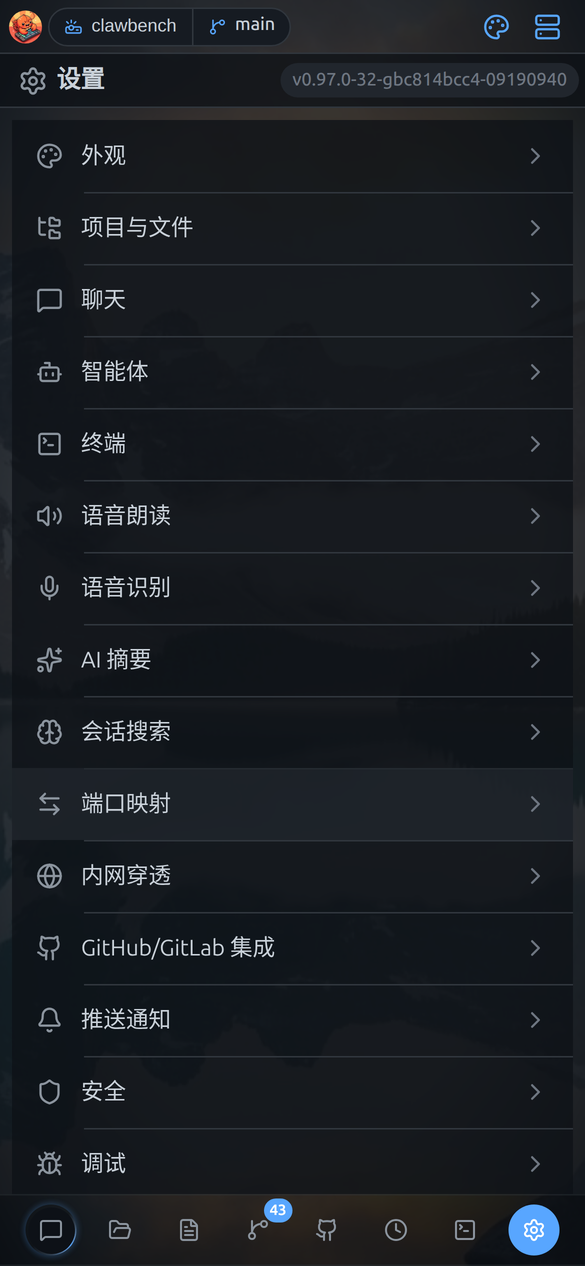
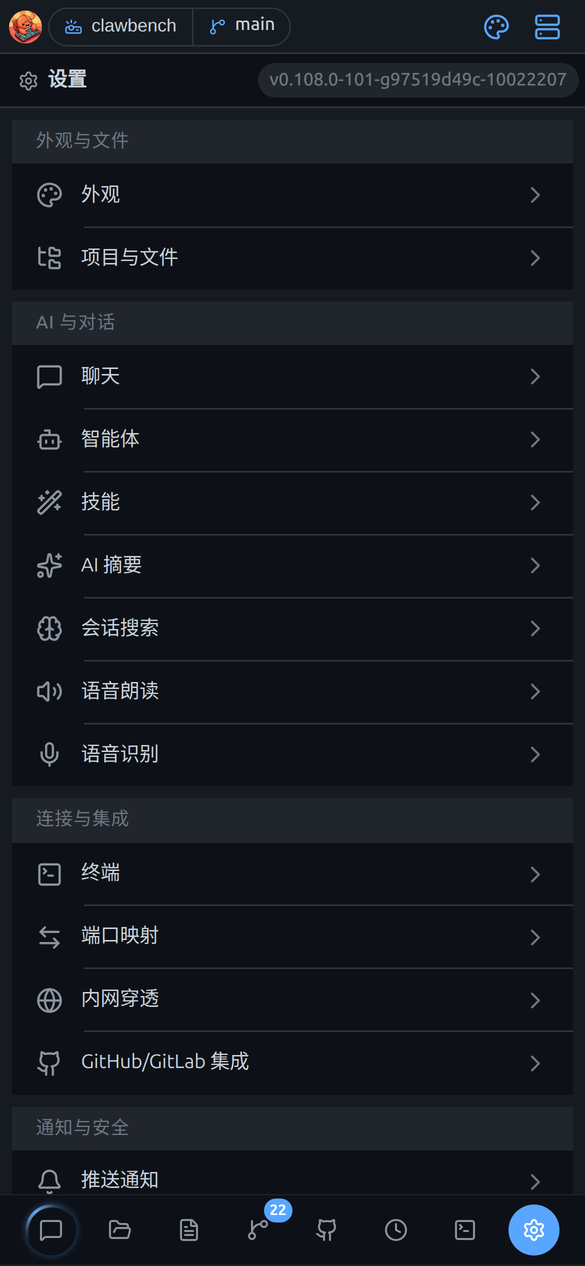
docs(user-guide): 修正与代码矛盾处并补全缺失功能
对照代码全面审查用户手册，修正多处与实现不符的描述，补齐缺失的
功能说明，并新增桌面客户端章节。

修正（与代码矛盾）：
- settings.md：分类数 16 → 17；「技能」是独立分类而非并入智能体；
  删除不存在的「会话有效期」；端口映射已移除「测试连通」按钮、
  传输方式改为保存即拆建（非下次重连）；补端口扫描
- TTS.md：删除后端并不存在的 minimax 引擎（仅 edge/piper/kokoro/moss-nano）
- DINGTALK/FEISHU_PUSH.md：改为当前的粘性会话 + /ls 命令行为
- FAQ.md：自动缩放已改为一次性「自动适配」按钮

补全：
- chat.md：/btw 需先配摘要模型、排队「合并」、计划/团队面板细节、
  ACP 外部会话恢复、消息聚类抽屉（原文「折叠卡片」描述有误）、
  消息索引搜索、元数据字段
- session.md：分叉锚点折叠与「第 N 代」、跨项目页签
- file-viewer/file-manager/git/stats/tasks/TERMINAL：符号大纲、表格行展开、
  灯箱桌面交互、内容搜索边界、SHA 搜索、单文件历史、流水线 job 明细、
  project_only、成本/趋势图
- android-app.md：国产 ROM 自启动与电池白名单指引
- 新增 desktop.md：桌面客户端（下载/窗口/版本门禁/自升级/通知/多服务器）
- README.md：索引补入桌面客户端章节

截图：新增 6 张、重拍 2 张（桌面 1280×720、移动 585×1266）

diff --git a/docs/user-guide/chat.md b/docs/user-guide/chat.md
@@ -28,7 +28,7 @@
 | 新建会话 | 新建（**桌面端**长按可选智能体；**移动端**新建时会先弹出智能体选择器） |
 | 会话搜索 | 打开搜索抽屉 |
 | 消息索引 | 打开用户消息索引，快速跳转到某条消息 |
-| 同步外部会话 | 把 ACP 外部会话同步进来 |
+| 同步外部会话 | 把 ACP 外部会话同步进来（见下方「外部会话同步与恢复」） |
 | 归档 | 归档当前会话 |
 | 自动朗读 | 开关 AI 回复的自动语音朗读 |
 | 刷新会话 | 重新拉取当前会话 |
@@ -42,6 +42,17 @@
 **移动端**「对话索引」抽屉按时间列出最近的**用户提问与 AI 回复摘要**（交错时间线，每行带角色图标），点击可跳到对应位置：
 
 ![对话索引](screenshots-mobile/m-56-message-index.png)
+
+**消息索引抽屉顶部有搜索框**，可过滤条目并高亮命中片段；键盘 `↑`/`↓` 选择、`Enter` 跳转。过滤后每条仍保留其**原始序号徽标**（便于对照真实位置），`/btw` 旁路问答条目带独立图标。
+
+### 外部会话同步与恢复
+
+**桌面端**顶栏的「同步外部会话」按钮用于把**该智能体在 CLI 侧已有的会话**导入 ClawBench：
+
+- 点击后打开**恢复抽屉**，列出该智能体的历史会话（带搜索框、滚动加载更多），点条目即恢复；标题为空时显示「未命名会话」
+- 该智能体**不支持列出会话**时，抽屉会明确提示，而不是显示空列表
+- 属于**其他项目**的会话默认折叠，抽屉底部会提示「另有 N 个属于其他项目」
+- **同步**会**重写当前会话的历史**，因此会先弹出危险操作确认框；会话正在运行或为空时该按钮禁用。同步完成后提示「已同步 N 条」
 
 ### 输入区
 
@@ -79,7 +90,9 @@
 
 **`/cb-user-guide <问题>` 查阅本手册**：AI 直接读手册源文件作答，并**在回答末尾附上参考文件的绝对路径与章节标题**，方便你顺着路径看原文。
 
-**`/btw <问题>` 是旁路问答**：由 ClawBench 用摘要模型基于当前会话作答，**不经过当前会话的 AI、不占用会话、不写进对话历史**——所以当 AI 正在跑长任务时也能随时「顺便问一句」。答案在聊天区留一个锚点，点击后在抽屉里查看。
+**`/btw <问题>` 是旁路问答**：由 ClawBench 用摘要模型基于当前会话作答，**不经过当前会话的 AI、不占用会话、不写进对话历史**——所以当 AI 正在跑长任务时也能随时「顺便问一句」。答案在聊天区留一个锚点，点击后在抽屉里查看；抽屉里渲染成一条完整的问答对（与正常消息同样的 Markdown、代码、表格、标注）。
+
+> **前提**：`/btw` 用的是**AI 摘要模型**，因此需要先在 **设置 → AI 摘要** 里配置好模型；未配置时该命令会直接报错。此外，失败的问题**同样会留下锚点**（记录失败原因），不会静默消失。对话索引里 `/btw` 条目带独立图标，可与普通提问区分。
 
 **移动端**在输入框开头输入 `/` 会弹出命令补全菜单，可快速调用内置命令（如 `/cb-chatsearch` 搜索历史会话、`/cb-task` 管理任务、`/cb-usage` 查用量、`/cb-user-guide` 查阅本手册），以及当前智能体支持的技能命令：
 
@@ -191,6 +204,8 @@
 
 用户消息同样支持复制与查看详情。
 
+**「查看详情」弹窗字段**：除模型、耗时、Token 用量外，还包含请求/追踪 ID、缓存读/写与缓存命中 Token 数及命中率、Credit、思考 Token、按类别的用量明细、墙钟耗时、结束原因、回合结果、Agent 阶段、是否已建全文/向量索引、外部会话 ID 等。字段较多，适合排查「这条回复到底花了多少、走的哪条链路」。
+
 > **注意**：**桌面端**这些按钮**悬停才出现**，触屏没有 hover——所以在**移动端**它们是**常显**的，直接点即可。
 
 **移动端**在消息里**选中文字**会弹出引用条，可以把这段内容带进下一轮提问。
@@ -201,8 +216,8 @@
 - **工具调用**：以胶囊/卡片形式展示，点击展开详情
 - **耗时标注**：每条回复下方显示本轮耗时
 - **文件变更横幅**：本轮改了哪些文件，点击打开抽屉
-- **计划面板**：AI 的多步计划及进度
-- **团队面板**：当智能体派出**多智能体团队**（目前 CodeBuddy 支持）时，输入框上方出现一条团队状态栏——折叠时显示当前正在工作的成员与进度（如「alpha · 进行中　1/2」），展开可看每个成员的名称（按成员配色）、状态、工具调用次数与 token 用量。成员各自产出的思考、工具调用和输出都归到它自己的 Agent 卡片下，不会和主对话混在一起。团队结束后状态栏收起为「已结束」，成员历史内容保留
+- **计划面板**：AI 的多步计划及进度。折叠时显示当前进行中那一步的文字与「完成数/总数」；计划更新时折叠条会闪一下高亮提示。展开后是按顺序排列的纵向时间线，每一步带状态节点（已完成 ✓ / 进行中脉动点 / 待办空心点）与**优先级圆点**（高红 / 中黄 / 低蓝）。回溯会话会清空计划面板
+- **团队面板**：当智能体派出**多智能体团队**（目前 CodeBuddy 支持）时，输入框上方出现一条团队状态栏——折叠时显示当前正在工作的成员与进度（如「alpha · 进行中　1/2」），团队结束后收起为「团队名 · 已结束」；展开可看每个成员的名称（按成员配色）、状态、工具调用次数与 token 用量（如 `85.2k`，为输入+输出之和）。成员行有原生提示气泡，额外显示该成员的**职责描述、agentType、输入/输出 token 拆分与最近一次上下文窗口大小**。成员各自产出的思考、工具调用和输出都归到它自己的 Agent 卡片下，不会和主对话混在一起。若这个团队是智能体**自动组建**的（未显式指定成员），标题旁会有一枚「**自动团队**」徽标。成员状态包含运行中 / 已完成 / 失败 / 已结束（被回收的成员整行变暗，仅表示资源已回收，不代表失败）
 - **滚动悬浮按钮**：快速跳到上一条/下一条消息、顶部/底部
 - **代码块头按钮**：代码块右上角的复制、换行、附加到聊天
 - **外部链接**：Markdown 里的 http/https 外链在**浏览器**里点击会**新标签页打开**，不会把当前应用界面顶掉（App 模式交给系统浏览器；同源链接与锚点、相对路径仍在原地导航）
@@ -312,6 +327,9 @@ AI 还在输出时你能做的事：插话、取消、重置会话。
 
 - **插话（steer）**：流式进行中直接发送新消息，会在当前回合的合适位置插入，不必等 AI 说完
 - **排队**：AI 忙碌时发的消息进入输入框上方的**排队面板**（收起态显示「排队中 · N」，展开看每一条）。逐条执行，**每条答完都会推送一次完成通知**（不再等整队列排空才推最后一条）；面板里每条可删除，另有「插话」按钮把该条插入当前回复
+  - **合并**：排队两条及以上时，面板底部提供**「合并」**操作，把队列里所有消息合并成一条再发送（附件与引用一并合并），避免 AI 逐条处理零散指令
+  - **收起态**：只有一条时不显示数量（冗余）；数量为 0 时面板自动收起
+  - **插话按钮的图标随能力变化**：后端支持打断时显示闪电图标、否则显示方块图标，但标签始终是「插话」——点下去都是「插进当前回合」的语义
 - **取消**：点停止按钮取消当前回合
 - **重置会话**：会话卡死时，用错误横幅上的按钮重启 AI 进程，对话上下文保留
 
@@ -420,12 +438,24 @@ AI 还在输出时你能做的事：插话、取消、重置会话。
 
 ## 消息聚类
 
-把长会话里聊同一件事的多轮对话自动折叠成一组，方便回溯。
+把长会话里聊同一件事的多轮对话自动归成一组，帮你从历史消息里发现可复用的 Prompt。
 
-**消息聚类**（Message Clustering）将同一主题的多轮对话自动归为一组，方便回溯与整理。聚类基于消息内容语义与时间间隔进行 Union-Find 三阶段合并：
+**消息聚类**（Message Clustering）是一个**按需分析的抽屉**，入口在**快捷发送抽屉**右上角的 **✨** 按钮。抽屉打开后：
+
+![消息推荐（消息聚类）](screenshots/chat-clusters.png)
+
+1. 点「**开始分析**」（已有结果时为「重新分析」），ClawBench 会对当前会话的历史消息做语义聚类
+2. 分析过程中显示**进度条与阶段**（提取 → 聚类 → 保存，带百分比）与所用的匹配方式（全文检索 / 语义向量 / 精确匹配）
+3. 完成后按组列出**聚类结果**，每组显示包含多少条相关对话；点开一组可查看其变体，并把满意的 Prompt **「添加」到快捷发送**，之后一键复用
+
+聚类基于消息内容语义与时间间隔进行 Union-Find 三阶段合并：
 
 1. **语义相近**：连续若干轮对话若讨论的是同一主题，则合并
 2. **时间合并**：间隔短的多轮对话段若主题相关则合并
 3. **边界识别**：若两段之间有明显的话题转换（如新问题或新文件），则分开
 
-聚类结果以折叠卡片形式展示，用户可点击展开查看完整多轮对话。适合长会话中快速定位到之前讨论过的某个子话题。
+> 聚类结果只在点「开始分析」时计算，不随对话实时变化——长会话中想找某个子话题时再跑一次即可。
+
+**移动端**入口相同（快捷发送抽屉右上角 ✨），抽屉从底部弹出：
+
+![移动端消息推荐](screenshots-mobile/m-59-message-clusters.png)

diff --git a/docs/user-guide/desktop.md b/docs/user-guide/desktop.md
@@ -1,0 +1,99 @@
+# 桌面客户端（Windows / macOS / Linux）
+
+> 本文适用于 **桌面客户端**（Electron 壳）。浏览器用户可跳过本章。
+
+ClawBench 桌面客户端是**纯「壳」**：它复用服务器与 Web 前端的全部业务逻辑，只补上浏览器做不到的桌面能力——**窗口最小化/隐藏时仍能弹系统通知**、原生窗口控制、自升级等。装了它，你的服务器与所有数据都不变，只是换一个更原生的入口。
+
+> 界面与浏览器版完全一致（同一套前端），差异只在原生能力；本章不重复截图，桌面专属能力以文字说明为主。
+
+> **与手机 App 模式的区别**：两者都经原生桥被识别为「原生环境」，但省电策略相反——Android 退到后台会被系统挂起，故隐藏时主动断开 WebSocket；桌面窗口只是最小化、进程仍在跑，断开 WS 等于自断通知来源。因此桌面端**窗口最小化时仍保持连接**，通知照常到达。
+
+## 下载与安装
+
+### 从哪里下载
+
+两种入口，拿到的是同一个安装包：
+
+- **设置 → 关于 → 下载桌面版**（仅当服务器是打了标签的正式发布、且你正在桌面浏览器里访问时出现）
+- 仓库的 GitHub **Releases** 页面
+
+> 服务器是**开发/未打标签**构建时，下载入口会自动隐藏——此时没有对应的发布包可下。
+
+### 支持平台
+
+| 平台 | 产物 |
+|---|---|
+| **Windows**（x64） | zip 免安装目录 |
+| **macOS**（Apple Silicon / Intel） | zip（`.app`） |
+| **Linux**（x64 / arm64） | zip 免安装目录 |
+
+下载的是 **zip 压缩包**，解压后直接运行其中的可执行文件即可，无需安装程序。国内网络下服务器会优先给出**镜像地址**，直连 github.com 作为兜底。
+
+## 窗口控制
+
+Windows / Linux 上是**无边框窗口**，标题栏右侧自绘三个控制按钮（最小化 / 最大化 / 关闭）；macOS 保留系统原生交通灯。标题栏空白处可拖动窗口。
+
+窗口的**最小化/隐藏**是桌面端最重要的能力：它是「系统通知是否弹出」的判据——**窗口在屏幕上（可见且未最小化）时抑制系统通知**（你开着应用，通知只会重复应用内完成卡片），只有最小化 / 隐藏时才弹。
+
+> **判据是「窗口是否可见」而非「是否有焦点」**：窗口摆在第二显示器、或被你正开着的其他程序盖住，都算「应用开着」，此时不该弹通知；否则你点一下别的窗口，通知就会突然开始弹。这个判断必须在主进程做——渲染层的 `document.hasFocus()` 在最小化/隐藏窗口里仍可能为真。
+
+## 原生通知
+
+会话完成、任务完成、需要审批、仓库事件发生时，若窗口不在屏幕上，桌面端会弹出**系统通知**（与浏览器通知不同，它在窗口最小化/隐藏时也能触发）。**点击通知**会直接把窗口带到前台并跳到对应位置：
+
+- 会话完成 → 打开该会话
+- 任务完成 → 打开该任务执行详情
+- 仓库事件 → 打开「议题与合并请求」页签
+
+窗口被最小化时，点击通知会先**还原并显示窗口**再跳转（只 `focus()` 对最小化窗口是无效的）。
+
+## 版本一致性门禁
+
+桌面客户端与服务端**同版本发布**，因此两端版本必须一致，否则可能出现不兼容。连接服务器时，客户端会比对双方版本：
+
+- **不一致时弹出阻断遮罩**，提示当前客户端版本与服务器版本，并给出**下载对应版本**的入口
+- **客户端较旧**（落后于服务器）时，下载是「升级」；**客户端较新**（超前于服务器）时，下载是「**降级**」——文案会区分这两种方向，不会把降级说成升级
+- 在遮罩里点下载后，会按服务端版本执行一次自升级；升级完成或你选择稍后重启，遮罩都会关闭
+- **开发/未打标签的服务器不触发门禁**（没有对应的发布版本可比对）
+
+## 自升级（侧装 + 指针）
+
+桌面端的升级采用**「侧装 + 指针」**而不是原地替换——因为运行中的进程无法覆盖自身（Windows 上尤其如此）：
+
+1. 新版本被解压到 `~/.clawbench-desktop/app-<版本>/` 这个**独立目录**
+2. 改写一个**指针文件** `~/.clawbench-desktop/current` 指向新目录
+3. 重启后，**应用自己**在启动最前面读指针，决定运行哪个版本
+
+这样做的收益是**失败可回滚、旧版本保留**：指针缺失、目标目录不存在、或指向自身时，应用会清掉指针并继续用当前版本启动——**被删坏或写坏的升级永远不会让应用打不开**。
+
+- **增量载荷包**（约 3MB，只含资源、复用已有 Electron 运行时）在 Linux / Windows 上优先使用；安装前会校验主版本与壳指纹，不符则静默回退到全量包
+- **macOS 不用载荷包**（替换签名 `.app` 内的资源会破坏代码签名），始终走全量下载
+
+> **「检查更新」在哪**：**设置 → 关于 → 检查更新**。发现新版本会弹出升级卡片，可选「立即升级 / 跳过此版本 / 稍后提醒」。
+
+## 多服务器与登录
+
+桌面端支持**保存多个服务器**，每个服务端的密码**分别加密存储**（用系统安全存储 safeStorage），在多个实例之间来回切换都能自动登录：
+
+- 登录页可添加、切换、删除已保存的服务器
+- 认证失败、网络不通、该服务端没存过密码这三种情况会**分别给出提示**，不会静默退回登录页
+- 服务器地址、凭据与主题/语言偏好都持久化在本地
+
+## 原生右键菜单与外部链接
+
+- **右键菜单**用系统原生菜单（剪切 / 复制 / 粘贴走系统角色，按语言本地化），图片上可「复制图片」、链接上可「复制链接」
+- **外部链接**交给系统默认浏览器打开，不会在应用窗口里顶掉界面
+- 窗口内的 `Ctrl+滚轮` / `Ctrl+=` / `Ctrl+-` 缩放整个界面（详见[快捷键与手势](shortcuts.md)）
+
+## 与浏览器的差异一览
+
+| 能力 | 浏览器 | 桌面客户端 |
+|---|---|---|
+| 窗口最小化时收通知 | ❌（标签被冻结时页面内通知不触发） | ✅ 系统通知 |
+| 原生窗口控制 / 无边框 | ❌ | ✅ |
+| 自升级 | ❌（刷新即可） | ✅ 侧装 + 指针 |
+| 版本一致性门禁 | ❌ | ✅ |
+| 多服务器保存 | 部分（App 模式） | ✅ 加密保存 |
+| 端口映射传输方式选择 | ❌（无 h2 流式请求体） | ✅ SSH / HTTP/2 |
+
+> **桌面端不是「手机 App 模式」**：它**不会**因为窗口最小化就断开 WebSocket——否则通知就失去了来源。前端用 `isDesktopApp` 区分两者，门控写成 `isAppMode && !isDesktopApp`。

diff --git a/docs/user-guide/file-viewer.md b/docs/user-guide/file-viewer.md
@@ -61,6 +61,8 @@
 
 **选中表格里的任意一行**（含表头行与数据行）「添加到聊天」时，引用标注的是该行自己的源文件行号，而不是整张表格的起始行。
 
+**移动端点表格行可展开为整行视图**：在触屏设备上点表格的数据行，会弹出一个全屏的行查看器，把该行的每个单元格以「表头 → 值」的形式纵向铺开，适合窄屏下看清一行有很多列的数据；可用左右箭头在相邻行之间切换。**桌面端不弹这个视图**——PC 上单击表格图片走灯箱，点表内路径/链接仍按各自跳转处理。
+
 **数学公式（LaTeX）**：
 
 ![LaTeX 公式](screenshots/preview-latex.png)
@@ -110,8 +112,10 @@ CodeMirror 编辑器，支持**浏览 / 编辑双模式**切换。特性：
 - **自动换行**：可开关
 - **粘性滚动（sticky scroll）**：滚动时当前函数/类名吸顶
 - **搜索**：`Mod+F` 打开搜索面板
-- **符号提取**：基于 tree-sitter 提取函数/类列表
+- **符号提取**：基于 tree-sitter 提取函数/类列表；**代码文件的工具栏「目录」按钮会渲染符号大纲**——按函数 / 类 / 结构体 / 接口 / 枚举等类型分组，每项带类型图标，点击跳到对应位置。Markdown 的目录、PDF 的页大纲与代码符号大纲共用同一个「目录」按钮与侧栏
 - **保存**：编辑态下 `Mod+S` 保存回原文件
+
+![代码符号大纲](screenshots/viewer-symbols.png)
 
 **新建文件是「未命名缓冲」**（与 VS Code 的 untitled 标签一致）：点「新建文件」不会先弹文件名，而是直接打开一个空的未命名编辑器，你先写内容，**首次保存时**才询问文件名（校验空名/含路径分隔符，并查重以免静默覆盖已有文件）。未命名状态下标题显示「未命名」，所有依赖磁盘路径的操作（分享、下载、Git 历史等）隐藏；直接退出等同关闭未保存标签，会先确认。
 
@@ -137,7 +141,11 @@ CodeMirror 编辑器，支持**浏览 / 编辑双模式**切换。特性：
 
 ![图片灯箱](screenshots/fm-lightbox.png)
 
-灯箱模式下图片占满视口，适合细看大图。
+灯箱模式下图片占满视口，适合细看大图。**桌面端**在灯箱里还可以：
+
+- **滚轮缩放**、放大后**拖动平移**
+- **下载**当前图片、以及**重置并重新加载**（图片加载失败时的重试入口）
+- 用左右箭头或键盘在同目录图片间切换，右上角显示「当前序号 / 总数」
 
 **移动端**：图片适应窗口显示，右上角显示「当前序号 / 总数」，可左右滑动或点箭头在同目录图片间切换；**双指捏合缩放**。灯箱点工具栏灯箱按钮全屏查看。
 
@@ -254,7 +262,7 @@ PDF 分页渲染，可以滚动翻页、缩放、切换页码。
 
   ![快速预览到聊天](screenshots/fm-quick-preview-chat.png)
 
-- **差异高亮与变更导航**：AI 修改文件后，查看器自动刷新并在**右缘以一条 3px 主题色细轨**标出变化的块/行（Markdown 块级、代码行级；鼠标悬停细轨会展开为提示小条）。预览区右上角出现一个**变更导航浮条**，显示「共 N 处」与 `当前/总数`，可用**上一条 / 下一条**在改动之间跳转、或用 **×** 清除标记——Markdown 与代码面共用同一套导航，切换文件时导航自动回到第一处。Markdown 里嵌套块（如列表项内部）的同一处改动会合并为一条标记，点击可一次看到该处全部 diff
+- **差异高亮与变更导航**：AI 修改文件后，查看器自动刷新并在**右缘以一条 3px 主题色细轨**标出变化的块/行（Markdown 块级、代码行级；鼠标悬停细轨会展开为提示小条，标出该处是新增 / 修改 / 删除）。预览区右上角出现一个**变更导航浮条**，显示「共 N 处」与 `当前/总数`，可用**上一条 / 下一条**在改动之间跳转、或用 **×** 清除标记——Markdown 与代码面共用同一套导航，切换文件时导航自动回到第一处，**滚动内容时序号也会跟着同步**。Markdown 里嵌套块（如列表项内部）的同一处改动会合并为一条标记，点击可一次看到该处全部 diff。**编辑模式下不显示变更导航**（正在编辑时标注意义不大）
 - **设为背景**：把图片设为界面壁纸
 
 ## 下载与导出

diff --git a/docs/Skills/clawbench-user-guide/SKILL.md b/docs/Skills/clawbench-user-guide/SKILL.md
@@ -161,7 +161,7 @@ if (meStatus !== 200) {
 | 任务 | `.task-tab` | 含事件任务 + 定时任务 |
 | 终端 | `.terminal-panel` | xterm；输入焦点 `.xterm-helper-textarea` |
 | 数据统计 | `.stats-tab-host` | 三子页：用量统计/代码存量/代码增量 |
-| 设置 | `.settings-page` | 首页 `.settings-index__row`（16 分类，两列） |
+| 设置 | `.settings-page` | 首页 `.settings-index__row`（**17 分类**，两列；含独立的「技能」分类） |
 
 **TabPanel 用 `v-show` 不是 `v-if`**：切过的面板留在 DOM（opacity:0）。自检必须判 `.tab-panel-active` 或走 `checkVisibility`，不能数元素个数。
 
@@ -169,7 +169,7 @@ if (meStatus !== 200) {
 
 ## 五、720p 的固有构图约束
 
-- **设置首页 16 个分类**（每行 96px，两列）在 648px 可视高度里只能完整显示 13 个，必然截断。接受它，或用滚动分两张。
+- **设置首页 17 个分类**（每行 96px，两列）在 648px 可视高度里只能完整显示 13 个，必然截断。接受它，或用滚动分两张。
 - **Git 提交列表**同理，只能显示前几条。
 
 ### 左栏必须收窄到 441px（用户明确要求）
@@ -240,6 +240,7 @@ localStorage.setItem('clawbench-widescreen-split-ratio', String(441 / 1232));
 | 快捷键与手势 | `shortcuts.md` |
 | 多项目与 Worktree | `projects.md` |
 | 上下文、摘要与分叉 | `context.md` |
+| 桌面客户端 | `desktop.md` |
 | Android App 专有 | `android-app.md` |
 | PWA 与 APK | `pwa-apk.md` |
 | 推送通知 | `DINGTALK_PUSH.md` / `FEISHU_PUSH.md` |
@@ -290,7 +291,7 @@ localStorage.setItem('clawbench-widescreen-split-ratio', String(441 / 1232));
 **Forge**：动态 / 议题 / 合并 / 流水线 / 详情 / 绑定弹窗
 **终端**：标签栏 / 虚拟键工具栏 / 主题选择器 / 键位配置 / 帮助抽屉 / 快速指令
 **统计**：用量统计（含筛选与图表切换）/ 代码存量 / 代码增量
-**设置**：**16 个分类逐个出图**（外观/项目与文件/聊天/智能体/终端/语音朗读/语音识别/AI 摘要/会话搜索/端口映射/内网穿透/GitHub GitLab 集成/推送通知/安全/调试/关于）
+**设置**：**17 个分类逐个出图**（外观/项目与文件/聊天/智能体/**技能**/AI 摘要/会话搜索/语音朗读/语音识别/终端/端口映射/内网穿透/GitHub GitLab 集成/推送通知/安全/调试/关于）
 
 ## 十、设置分类截图脚本要点
 

diff --git a/docs/user-guide/session.md b/docs/user-guide/session.md
@@ -39,7 +39,7 @@
 
 > **归档 vs 移除**：归档是**单向**的软隐藏；移除会把会话从数据库**物理删除**（消息、工具调用、摘要、标签关联、分享链接一并清除，用量台账保留）——会先取消正在运行的会话、清空其排队消息，运行中时确认框会额外提示。CLI 自己的磁盘转录文件保持原样，可从外部恢复区重新载入。
 
-侧栏底部是**跨项目会话分组**，列出其他项目的会话，点击可直接跳转。
+侧栏底部是**跨项目会话分组**，列出其他项目的会话，点击可直接跳转。**桌面端**侧栏顶部有一个「**本项目 / 其他项目**」页签切换（其他项目页签带数量角标），用来在两种视图间快速切换；当最后一个活跃会话消失时视图会自动切回本项目。
 
 ### 移动端：会话列表
 
@@ -175,6 +175,8 @@
 - **分叉**：从某条消息创建对话分支，原会话不受影响。分叉会带上压缩后的上下文（预算可在设置中调整）。**移动端**：从某条消息开新会话，保留该消息之前的全部上下文，适合「换个方向再问」。
 - **回溯（Rewind）**：把会话截断到某条消息处并重启 AI 会话，用于「走错路了重来」。回溯会同时清空计划面板。**移动端**：回到某条消息时的状态，之后的消息被丢弃，适合「刚才答得不对，重来」。
 - **续接**：在已有会话基础上开新会话，标题会带时间戳前缀。
+
+**分叉在会话列表中会折叠到锚点行下**：一个分叉会话不会作为独立条目平铺，而是收在它**分叉来源**那一行的下方，带缩进与树状连接线，可点锚点行的「**N 个分叉**」开关收起或展开（默认展开，方便你看到刚建的分叉）。**分叉的分叉**（第二代及以后）会额外显示「**第 N 代**」小徽标——缩进与树线只能表达层级，说不清它到底是第几代。跨项目分组里同样如此。
 
 **移动端**：分叉与回溯都在消息操作条里，也支持从会话「⋮」菜单进入。
 

diff --git a/docs/user-guide/stats.md b/docs/user-guide/stats.md
@@ -16,11 +16,13 @@
 
 - **时间范围**：近 24 小时 / 近 7 天 / 近 30 天 / 自定义（选起止日期）
 - **用量总览环形图**：输入 vs 输出的占比，可下钻
-- **指标卡**：输入 Tokens、输出 Tokens、总 Tokens、缓存命中 Tokens、Credit、缓存命中率
+- **指标卡**：输入 Tokens、输出 Tokens、总 Tokens、缓存命中 Tokens、Credit、**成本（USD）**、缓存命中率
 - **统计条件**：分组方式（模型 / AI 后端 / 智能体）、数值列（多选）、图表类型（直方图 / 饼图 / 时间趋势）
 - **维度明细表**：按所选维度列出各项数值，点表头可排序
 
 > 用量数据是独立台账，不会因为删除会话而丢失。
+
+> **成本（USD）**：按各模型/后端的定价折算的美元成本，与 Credit 是两个不同的计费口径，可同时勾选对比。
 
 ## 代码存量
 
@@ -28,7 +30,7 @@
 
 ![代码存量](screenshots/stats-02-cloc.png)
 
-项目代码量快照，按语言分类统计代码行数。排除规则 = 内置规则 ∩ 项目 `.gitignore`。
+项目代码量快照，按语言分类统计代码行数。**以柱状图 + 可排序表格**展示：柱状图按语言对比代码量，表格列出每种语言的文件数、代码行、注释行、空行，点表头排序。排除规则 = 内置规则 ∩ 项目 `.gitignore`。
 
 > 首次计算耗时较长（需要扫描全项目），会显示「加载中」。
 
@@ -39,6 +41,9 @@
 ![代码增量](screenshots/stats-03-gitcode.png)
 
 指定时间窗内按作者统计新增 / 删除 / 净增行数与提交数。支持作者筛选。
+
+- **逐日趋势图**：按天展示新增 / 删除的走势
+- **作者筛选**：以**多选标签**的形式列出各作者，不选=全部作者合计，勾选若干位=只看他们的并集；表格可按任意列排序
 
 ## 系统资源监控
 

diff --git a/docs/user-guide/git.md b/docs/user-guide/git.md
@@ -17,7 +17,7 @@
 ![Git 提交历史](screenshots/git-01-commits.png)
 
 - 带图形化的提交列表，显示分支、标签、作者与时间
-- 顶部有**搜索框**可按提交信息过滤
+- 顶部有**搜索框**，既按**提交信息**过滤，也支持按 **commit id 前缀**匹配（输入 4 位以上十六进制即视为 id 前缀，两种匹配都会命中，互不遮挡）
 - 右上角「刷新」与「管理」按钮
 - 滚动到底自动加载更多
 - 顶部的**工作区变更**入口列出已暂存 / 未暂存 / 未跟踪的文件（角标显示数量）
@@ -39,6 +39,12 @@
 **移动端**点提交查看详情，显示 SHA / 作者 / 时间 / 文件列表：
 
 ![提交详情（移动端）](screenshots-mobile/m-30-git-commit-detail.png)
+
+### 单文件历史
+
+除了整个项目的提交历史，还可以只看**某个文件自己的历史**：在文件查看器的「更多」菜单里选「文件历史」，打开的是一个**文件级**的提交列表（标题为「文件历史」，计数单位是「条记录」而非「条提交」），列出所有改动过该文件的提交，点进去看每次对它的 diff。
+
+> 与「项目历史」的区别：项目历史按提交展示整次提交改动的全部文件；文件历史只关心这一个文件的演进，适合回溯「这个函数是哪次改的」。
 
 ## 分支
 
